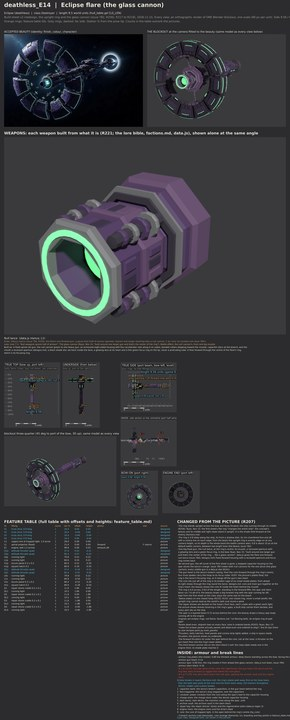
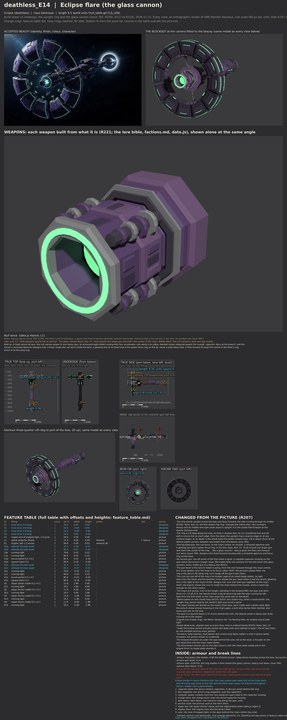
E14 sheet: the core's light as built (hidden from ahead), ring study crops on the ring, the null lance in the kit docs
Refs #782

Claude-Session: https://claude.ai/code/session_01TX7Q21s76BEf5gcGTrpJ1G

diff --git a/tools/blender/build_sheets/ships/deathless_E14.py b/tools/blender/build_sheets/ships/deathless_E14.py
@@ -296,7 +296,7 @@ def build(K):
     K.change('One big fixed gun, the null lance, at the ring\'s centre; its muzzle, a recessed aperture with a glowing lens and a green focus ring, is the bow', 'Ryan, Nov 15: "built around one larger gun and that\'s the center of the ring ... like a glass cannon". data.js gives the flare one forward null lance (issue 784); designs.md\'s fixed forward housing with a recessed aperture and focus ring comes back')
     K.change('No second gun: the aft turret of the first sheet is gone; a stepped capacitor housing on the spar stores the lance\'s charge', 'issue 784 trades both null cannons for the one lance (the glass cannon); every visible gun is a data.js slot (R241)')
     K.change('The gun heart is the lance\'s breech casing, from the core forward through the ring\'s centre; four truss spokes carry the hoop to its focus collar', 'R207: the picture\'s plates float; the ring is the lance\'s focusing ring, so it hangs off the gun\'s own heart')
-    K.change('The core sits just aft of the ring in its broken cage of six small shade plates; from ahead its light shows through the ring round the lance', 'designs.md: core and main gun together at the ring\'s heart; the beauty shows the core lit inside the heart behind the muzzle')
+    K.change('The core sits just aft of the ring in its broken cage of six small shade plates, its light seen from the beam and the quarters; from ahead the gun heart hides it and the lance\'s glowing lens is the light at the ring\'s centre', 'designs.md: core and main gun together at the ring\'s heart; the beauty shows the core lit inside the heart behind the muzzle, which a heart big enough for the lance covers')
     K.change('The ring is 6.0 across, 0.63 of the length, standing in the forward fifth; the spar and stern block run 7.6 aft of it', 'the beauty draws a big forward ring with the spar running far aft; kept from the first sheet so the class stays the same size on the board')
     K.change('Twelve plates on one closed hoop (R233)', 'R233: one closed ring, never a small zenith; the upright ring cannot read as the zenith\'s split oval round a spine')
     K.change('The repair drones are docked on the hoop\'s front face, each cradle with a green work light', 'the picture shows drones hovering in the ring\'s gaps; a built ship carries them docked, and every part sits on the ship')

diff --git a/tools/blender/build_sheets/studies/e14_ring_study.py b/tools/blender/build_sheets/studies/e14_ring_study.py
@@ -99,6 +99,7 @@ for name, hd in VIEWS:
             top = project(cam, [E.rp(rim_back, E.R_OUT, 90.0), E.rp(rim_front, E.R_OUT, 90.0)], res)
             rec['band_px'] = round(math.dist(top[0], top[1]), 1)          # the rim's depth at the top plate, on screen
             rec['ring_w_px'] = round(max(xs) - min(xs), 1); rec['ring_h_px'] = round(max(ys) - min(ys), 1)
+            rec['ring_c_px'] = project(cam, [(E.XR, 0.0, 0.0)], res)[0]                 # the ring's centre on screen, for the crop
     rows.append(rec)
 json.dump(dict(px_per_unit=round(PX_UNIT, 2), elevation=round(EL, 1), views=rows), open(os.path.join(OUT, 'ring_study.json'), 'w'), indent=1)
 
@@ -120,8 +121,10 @@ for j, rec in enumerate(rows):
     im.paste(big, (x0, 96))
     g = Image.open(os.path.join(OUT, 'study_game_%d.png' % int(rec['heading']))).convert('RGB')
     im.paste(g, (x0, 404))
-    im.paste(g.crop((65, 45, 155, 115)).resize((180, 140), Image.NEAREST), (x0 + 226, 414))
-    d.text((x0, 566), '1:1, the game\'s size', fill=(186, 190, 198), font=F(13)); d.text((x0 + 226, 566), 'its centre, twice up', fill=(186, 190, 198), font=F(13))
+    cx_, cy_ = [int(round(v)) for v in rec['ring_c_px']]
+    cx_ = max(45, min(GRES[0] - 45, cx_)); cy_ = max(35, min(GRES[1] - 35, cy_))
+    im.paste(g.crop((cx_ - 45, cy_ - 35, cx_ + 45, cy_ + 35)).resize((180, 140), Image.NEAREST), (x0 + 226, 414))
+    d.text((x0, 566), '1:1, the game\'s size', fill=(186, 190, 198), font=F(13)); d.text((x0 + 226, 566), 'the ring\'s centre, twice up', fill=(186, 190, 198), font=F(13))
     if rec['view'] == 'beam':
         line = 'edge-on: a band %.0f px wide and %.0f px tall' % (rec['band_px'], rec['ring_h_px'])
     else:

diff --git a/tools/blender/kits/eclipse/parts.py b/tools/blender/kits/eclipse/parts.py
@@ -15,6 +15,8 @@
 #                from a layered crescent shade; spire (gsentry): a tall slim banded spire, needles through a crescent fin
 #   spinal       the corona arc (doom): an arc emitter: breech collars, a capacitor column (segments, stacked disc banks,
 #                feed conduits), a black shade disc in a corona ring with a small lens, a crown of six electrode horns
+#                spinal(kind='lance'): the null lance (nlance, issue 784; the E14 flare, issue 782): a fixed spinal rail gun, an
+#                armoured eight-sided housing, four rails on yokes with banded collars, a recessed bore to a glowing lens, a green focus ring
 #   core_cage    the trapped light core: a bright sphere in gimbal rings and meridian bars between two hub collars
 #   strut        a built truss: two rails, a zigzag web and end lugs (R207: real structural connections)
 #   corewin      a hexagonal armoured port onto the core's light: a rim, set-back glass that glows, grille bars

diff --git a/docs/ship_pipeline/build_sheets/deathless_E14/README.md b/docs/ship_pipeline/build_sheets/deathless_E14/README.md
@@ -115,8 +115,9 @@ All in [feature_table.md](feature_table.md); the design calls the Board should l
   focus ring comes back as the null lance; the first sheet's two turrets are gone.
 - **The muzzle stands 0.9 ahead of the ring's front face** (the beauty's heart reaches about that far); from ahead the muzzle is
   at the ring's centre, from the beam the gun reads as part of the ring's heart, not a long nose.
-- **The core sits just aft of the ring**, not in its plane: the gun heart runs through the ring's centre, so the core's light
-  shows round the lance through the ring from ahead and through the cage from the side.
+- **The core sits just aft of the ring**, not in its plane: the gun heart runs through the ring's centre. Its light shows through
+  the cage from the beam and the quarters; from ahead the heart hides it ([bow.jpg](bow.jpg)) and the lance's glowing lens is
+  the light at the ring's centre.
 - **The capacitor housing replaces the aft turret** on the spar's back (the beauty's low dorsal housing).
 - **The forward thrusters sit under the spar behind the core**: on the gun heart they would fire into the ring's lower plates.
 - **Kept from the first sheet**: twelve plates on one closed hoop (R233), the ring 6.0 across (0.63 of the length), the drones
@@ -138,8 +139,12 @@ All in [feature_table.md](feature_table.md); the design calls the Board should l
 ## What still differs from the concept, and why
 
 - **Surface and colour**: the concept's plates are thick heavily panelled blocks; the blockout is flat schematic colour (stage 5).
-- **The core's light**: the beauty shows the core glowing inside the heart right behind the muzzle; here the lance's lens glows
-  in the bore and the core sits behind the ring in its cage.
+- **The core's light from ahead** (the biggest visible gap in the whole compare): the beauty shows the core glowing in a window
+  of the heart right behind the muzzle; here the lance's lens glows in the bore and the core sits behind the ring in its cage,
+  hidden from ahead by the heart. If the Board wants the beauty's glow, a ring of core windows on the gun heart behind the
+  muzzle is the change (a design call, not built here).
+- **The plan pair in whole_compare.jpg** does not compare: the concept sheet's left view draws the ring face-on across the spar,
+  which contradicts the upright ring of the beauty and of the sheet's other two views; the build's plan shows the ring edge-on.
 - **The spar is shorter** than the beauty's, which runs farther aft; the class length holds it.
 - **Proportions**: the concept sheet's left view draws the ring face-on across the spar and its middle view is an edge-on view
   of a shorter ship, so the length to beam and height table in inventory.md does not compare like with like.

diff --git a/docs/ship_pipeline/build_sheets/deathless_E14/feature_table.md b/docs/ship_pipeline/build_sheets/deathless_E14/feature_table.md
@@ -154,7 +154,7 @@ Written from the concept before modelling; ticked per blob-sweep cell (present, 
 - **One big fixed gun, the null lance, at the ring's centre; its muzzle, a recessed aperture with a glowing lens and a green focus ring, is the bow.** Ryan, Nov 15: "built around one larger gun and that's the center of the ring ... like a glass cannon". data.js gives the flare one forward null lance (issue 784); designs.md's fixed forward housing with a recessed aperture and focus ring comes back.
 - **No second gun: the aft turret of the first sheet is gone; a stepped capacitor housing on the spar stores the lance's charge.** issue 784 trades both null cannons for the one lance (the glass cannon); every visible gun is a data.js slot (R241).
 - **The gun heart is the lance's breech casing, from the core forward through the ring's centre; four truss spokes carry the hoop to its focus collar.** R207: the picture's plates float; the ring is the lance's focusing ring, so it hangs off the gun's own heart.
-- **The core sits just aft of the ring in its broken cage of six small shade plates; from ahead its light shows through the ring round the lance.** designs.md: core and main gun together at the ring's heart; the beauty shows the core lit inside the heart behind the muzzle.
+- **The core sits just aft of the ring in its broken cage of six small shade plates, its light seen from the beam and the quarters; from ahead the gun heart hides it and the lance's glowing lens is the light at the ring's centre.** designs.md: core and main gun together at the ring's heart; the beauty shows the core lit inside the heart behind the muzzle, which a heart big enough for the lance covers.
 - **The ring is 6.0 across, 0.63 of the length, standing in the forward fifth; the spar and stern block run 7.6 aft of it.** the beauty draws a big forward ring with the spar running far aft; kept from the first sheet so the class stays the same size on the board.
 - **Twelve plates on one closed hoop (R233).** R233: one closed ring, never a small zenith; the upright ring cannot read as the zenith's split oval round a spine.
 - **The repair drones are docked on the hoop's front face, each cradle with a green work light.** the picture shows drones hovering in the ring's gaps; a built ship carries them docked, and every part sits on the ship.

diff --git a/tools/blender/kits/eclipse/README.md b/tools/blender/kits/eclipse/README.md
@@ -42,6 +42,11 @@ units (`PANEL`), so a part built large keeps the hull's detail density: the engi
 column and head carry them, and every engine bell gets stiffener rings by its length. The corona arc's hard point is its lens
 (the horns' meeting point ahead of it is open space, off the mesh).
 
+**The null lance (issue 782).** `spinal(kind='lance')` builds the flare's one fixed forward gun (data.js nlance, issue 784): a seat
+ring, an armoured eight-sided housing with a layer sleeve and panels, capacitor discs, four accelerator rails on yokes, and a
+recessed bore with a black shade disc and a glowing lens behind a thin green focus ring (designs.md). Its type is `nullcannon` on
+a fixed mount (weapon_match FITS `nlance`); its hard point is the lens, its firing lane starts at the mouth.
+
 **Even panels (R243, issue 739).** `even_panels()` and `lay_panels()` lay a sheet ship's hull panels dead even and aligned
 (Ryan, Nov 13 2026: "make the eclipse panels actually panels and dead even and ordered to align"): each loft face split into equal
 panels at a world size, every panel the same thickness with a narrow even gap, the tone changing in ordered bands along each
